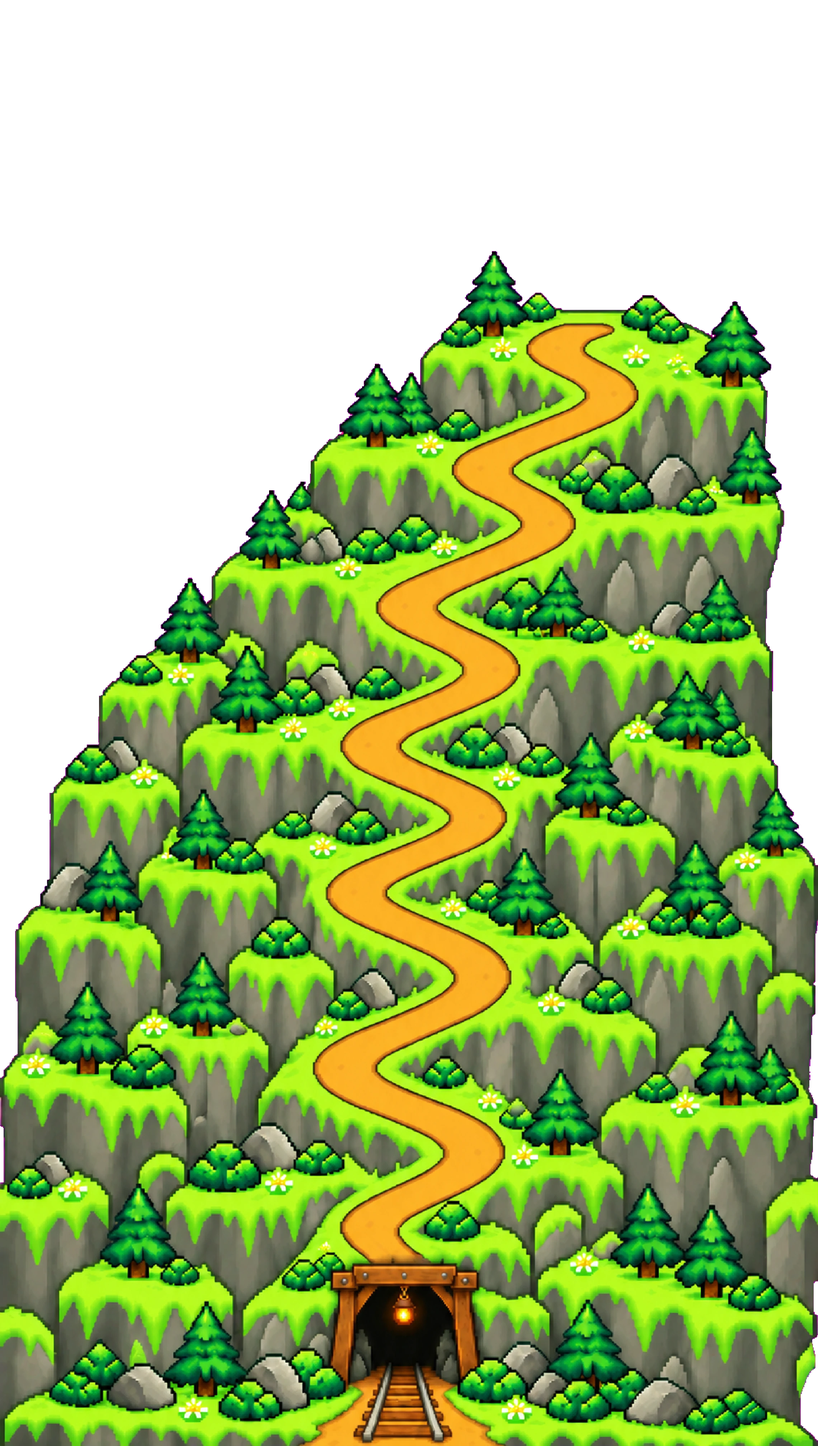
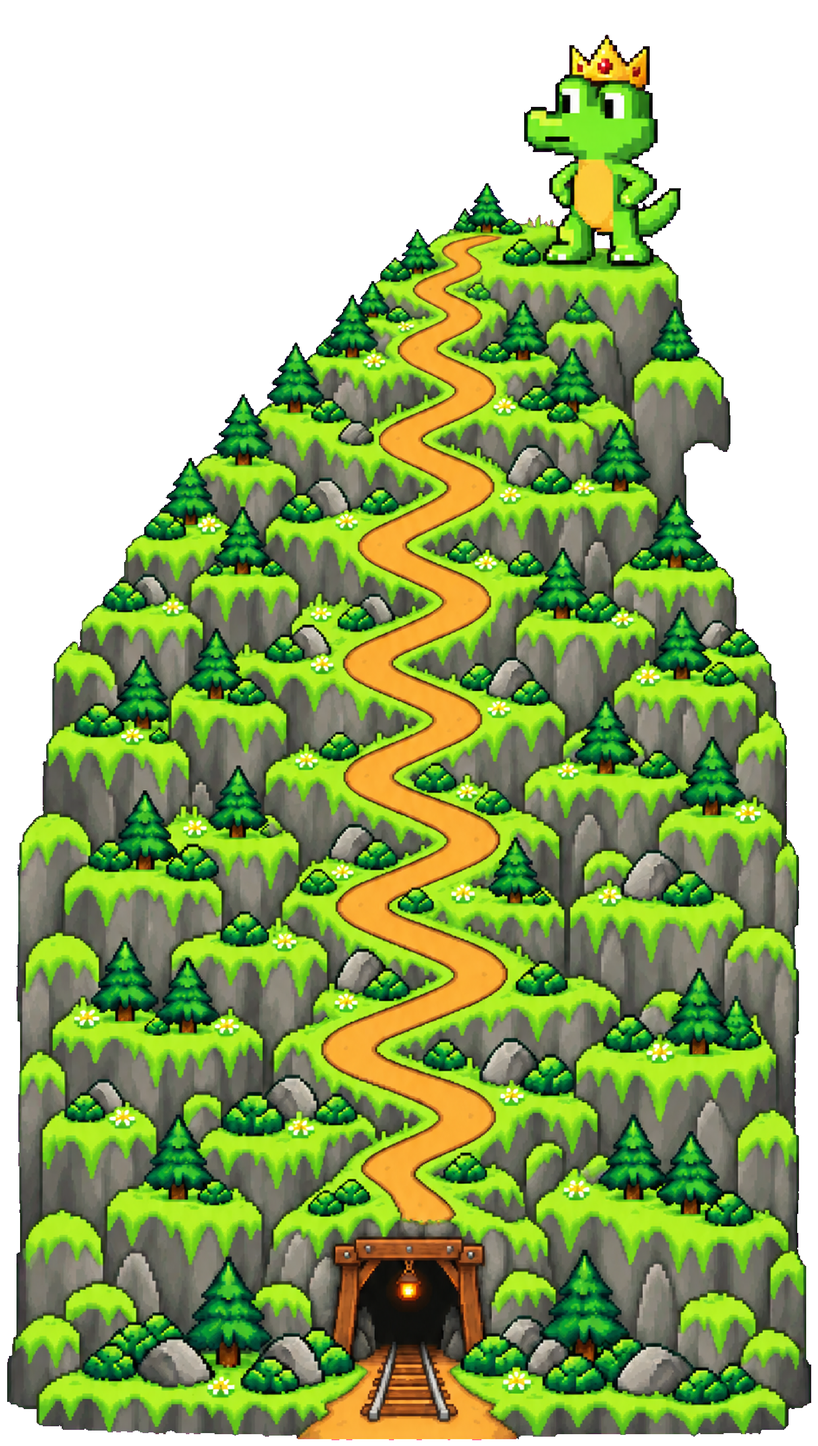
[verified] fix: regenerate unified mountain with clean alpha

diff --git a/components/Mountain.tsx b/components/Mountain.tsx
@@ -2,16 +2,15 @@
 
 import { useLayoutEffect, useRef, useState } from "react";
 
-// One continuous mountain painting (summit → switchback trail → mine entrance)
-// sits behind the hero AND the challengers section, so there is no seam. The
-// full crowned crocodile and its foreground summit are a separate transparent
-// layer so the complete character can stay visible at desktop hero scale.
+// One continuous transparent painting (full crowned crocodile on the summit →
+// switchback trail → mine entrance) sits behind the hero AND the challengers
+// section, so the full character and mountain remain one seamless asset.
 // It is sized so that the upper summit lines up with the hero anchor and the
 // painted mine entrance lands on the bottom of this wrapper.
 // The wrapper is also given a min-height so the painting is always at least as
 // wide as the viewport (its lower part must fill the full width).
 const RATIO = 1520 / 2688; // width / height of the art
-const SUMMIT_ANCHOR = 0.235; // upper summit reference row in the empty mountain art
+const SUMMIT_ANCHOR = 0.235; // upper-mountain reference row in the unified art
 // The art is drawn at least this much wider than the viewport, so the croc and
 // the trail read at a good size (and the lower mountain always fills the width).
 const MIN_SCALE = 1.0;
@@ -84,24 +83,15 @@ export function Mountain({ children }: { children: React.ReactNode }) {
       />
       {/* eslint-disable-next-line @next/next/no-img-element */}
       <img
-        src="/assets/mountain-full-1520.webp?v=full-dino-2"
-        srcSet="/assets/mountain-full-1520.webp?v=full-dino-2 1520w, /assets/mountain-full-2280.webp?v=full-dino-2 2280w, /assets/mountain-full-3040.webp?v=full-dino-2 3040w"
+        src="/assets/mountain-full-1520.webp?v=unified-full-2"
+        srcSet="/assets/mountain-full-1520.webp?v=unified-full-2 1520w, /assets/mountain-full-2280.webp?v=unified-full-2 2280w, /assets/mountain-full-3040.webp?v=unified-full-2 3040w"
         sizes={box ? `${Math.round(box.height * RATIO)}px` : "100vw"}
-        alt=""
+        alt="The crowned crocodile standing on a complete pixel-art mountain with a winding trail to the mine"
         width={1520}
         height={2688}
         fetchPriority="high"
-        className="pointer-events-none absolute left-1/2 z-[1] max-w-none -translate-x-1/2 select-none"
+        className="pixelated pointer-events-none absolute left-1/2 z-[1] max-w-none -translate-x-1/2 select-none"
         style={box ? { top: box.top, height: box.height, width: Math.round(box.height * RATIO) } : { visibility: "hidden" }}
-      />
-      {/* eslint-disable-next-line @next/next/no-img-element */}
-      <img
-        src="/assets/croc-summit-hero.webp?v=transparent-full-1"
-        alt="The crowned crocodile standing on a grassy pixel-art mountain summit"
-        width={1179}
-        height={1334}
-        fetchPriority="high"
-        className="croc-summit-hero pixelated pointer-events-none absolute top-[150px] right-[2%] z-[2] h-auto w-[min(42vw,620px)] select-none"
       />
       {children}
     </div>

diff --git a/components/Hero.tsx b/components/Hero.tsx
@@ -138,9 +138,7 @@ export function Hero({ state, now, connection }: { state: GameState; now: number
         </div>
       </div>
 
-      {/* Mountain summit alignment point. The full crocodile/summit foreground
-          is a separate transparent layer, so it is never cropped from the
-          continuous mountain painting. */}
+      {/* Upper-mountain alignment point for the single unified transparent art. */}
       <div className="relative h-[300px] shrink-0 lg:absolute lg:inset-x-0 lg:top-[820px] lg:h-0" aria-hidden>
         <div data-croc-anchor className="absolute bottom-4 left-0 lg:bottom-0" />
       </div>

diff --git a/app/globals.css b/app/globals.css
@@ -140,12 +140,6 @@ body {
   image-rendering: pixelated;
 }
 
-@media (max-width: 1023px) {
-  .croc-summit-hero {
-    display: none;
-  }
-}
-
 /* ── Buttons ── */
 .btn-px {
   --btn-bg: var(--gold);
